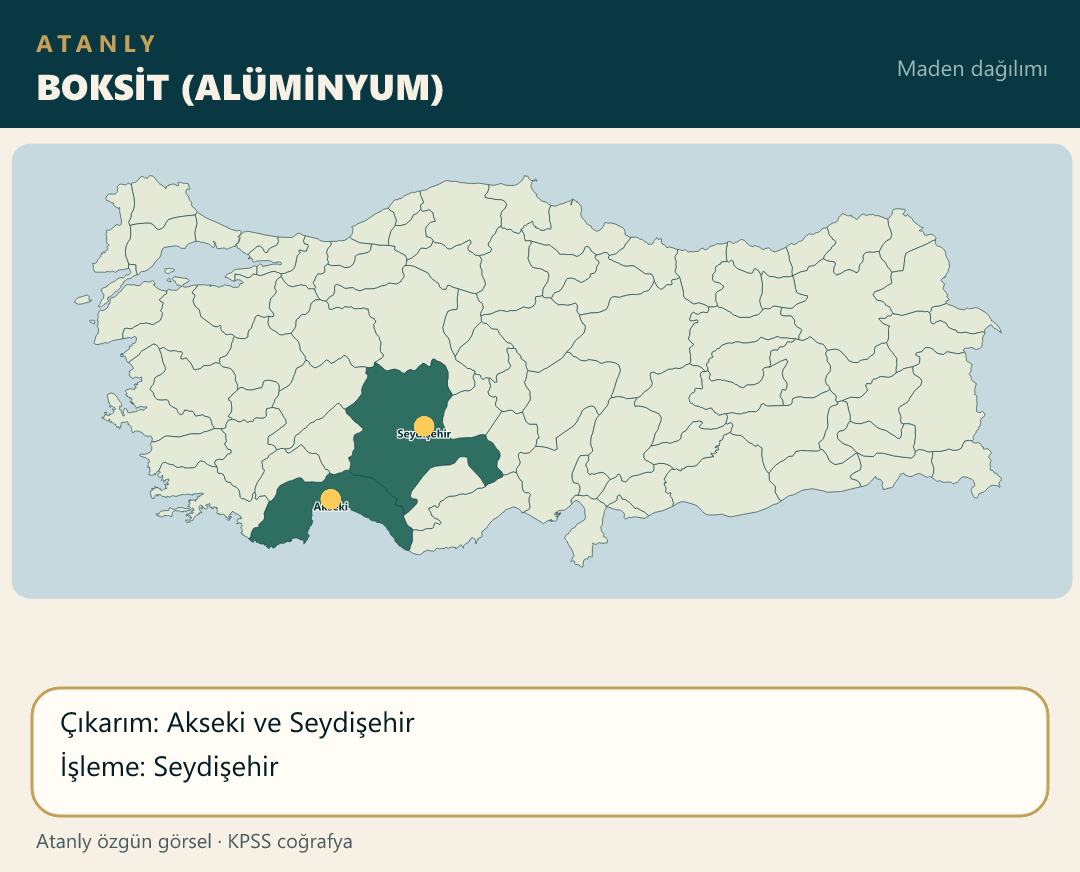
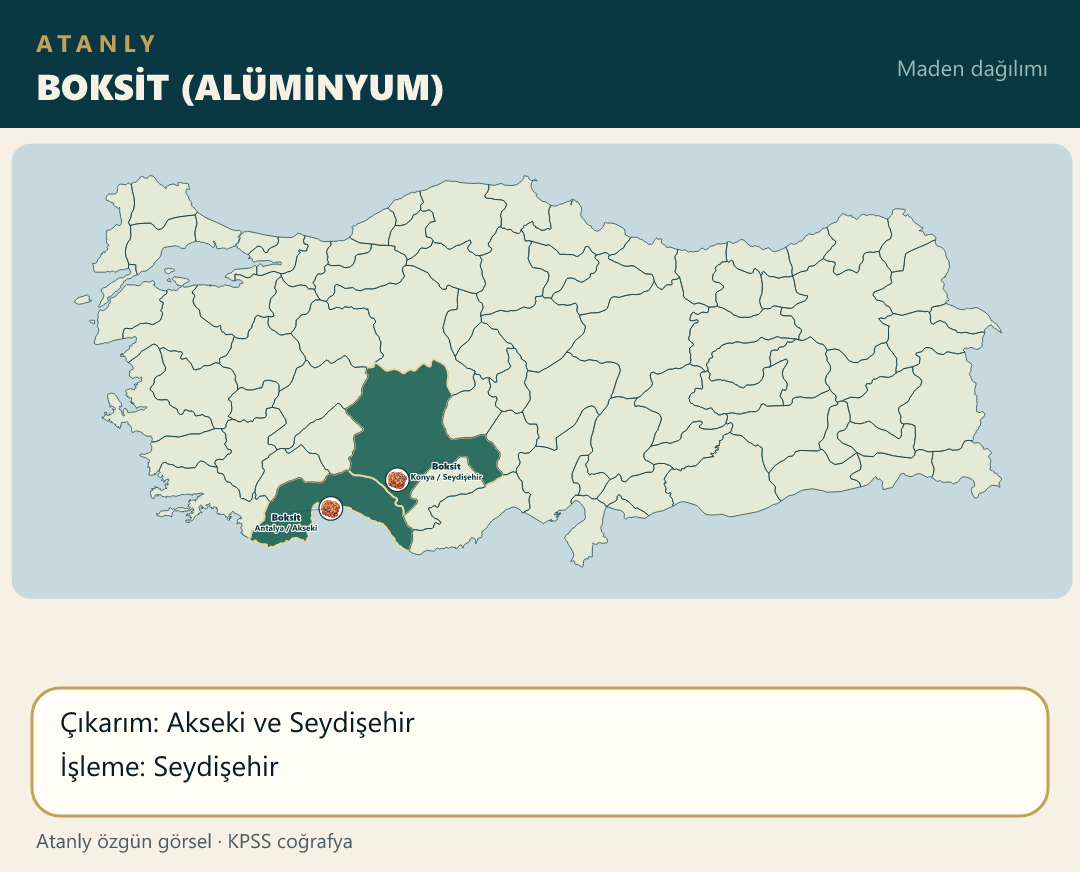
Keep Seydişehir inside southern Konya and split overlapping boksit labels.

diff --git a/scripts/build-atanly-maps.js b/scripts/build-atanly-maps.js
@@ -544,7 +544,7 @@ function cropMap(provs, opts) {
         hi.push(row.il);
         var pos = districtXY(fp);
         if (row.pin === "cap" && fp.capX != null) pos = { x: fp.capX, y: fp.capY };
-        pos = { x: pos.x + (row.pdx || 0), y: pos.y + (row.pdy || 0) };
+        pos = clampInProv(fp, pos.x + (row.pdx || 0), pos.y + (row.pdy || 0));
         var ldy = row.ldy != null ? row.ldy : ((fp.maxY - pos.y) < 55 ? -16 : 18);
         pts.push({
             x: pos.x, y: pos.y, ox: pos.x, oy: pos.y,
@@ -996,8 +996,11 @@ function main() {
                 { il: "Artvin", ilce: "Murgul", ldx: 32, ldy: 8 }
             ],
             facts: ["En çok Karadeniz’de çıkarılır: Küre, Murgul, Çayeli", "İşleme: Samsun (ulaşım)"] },
-        { file: "maden_boksit.png", title: "BOKSİT (ALÜMİNYUM)", iller: ["Antalya", "Konya"],
-            yazilar: ["Akseki", "Seydişehir"],
+        { file: "maden_boksit.png", title: "BOKSİT (ALÜMİNYUM)", urun: "Boksit",
+            noktalar: [
+                { il: "Antalya", ilce: "Akseki", ldx: -44, ldy: 12, pdx: 36, pdy: -8 },
+                { il: "Konya", ilce: "Seydişehir", ldx: 48, ldy: -10, pdx: -6, pdy: 50 }
+            ],
             facts: ["Çıkarım: Akseki ve Seydişehir", "İşleme: Seydişehir"] },
         { file: "maden_krom.png", title: "KROM", iller: ["Elazığ", "Muğla", "Antalya"],
             yazilar: ["Guleman", "Köyceğiz", "Antalya (işleme)"],

diff --git a/notlar/cografya-21-not.js b/notlar/cografya-21-not.js
@@ -2,7 +2,7 @@
 (function () {
     function harita(src, alt) {
         return '<div class="mt-4 overflow-hidden rounded-xl border border-blue-200 dark:border-blue-700/50 bg-white dark:bg-slate-800 p-2">' +
-            '<img src="./src/img/' + src + '?v=15" alt="' + alt + ' Haritası" class="w-full h-auto rounded-lg object-contain" loading="lazy">' +
+            '<img src="./src/img/' + src + '?v=17" alt="' + alt + ' Haritası" class="w-full h-auto rounded-lg object-contain" loading="lazy">' +
             "</div>";
     }
 

diff --git a/index.html b/index.html
@@ -119,7 +119,7 @@
     <script src="notlar/cografya-18-not.js?v=17"></script>
     <script src="notlar/cografya-19-not.js?v=25"></script>
     <script src="notlar/cografya-20-not.js?v=1"></script>
-    <script src="notlar/cografya-21-not.js?v=8"></script>
+    <script src="notlar/cografya-21-not.js?v=10"></script>
     <script src="notlar/cografya-22-not.js?v=1"></script>
     <script src="notlar/cografya-23-not.js?v=1"></script>
     <script src="notlar/cografya-24-not.js?v=1"></script>
